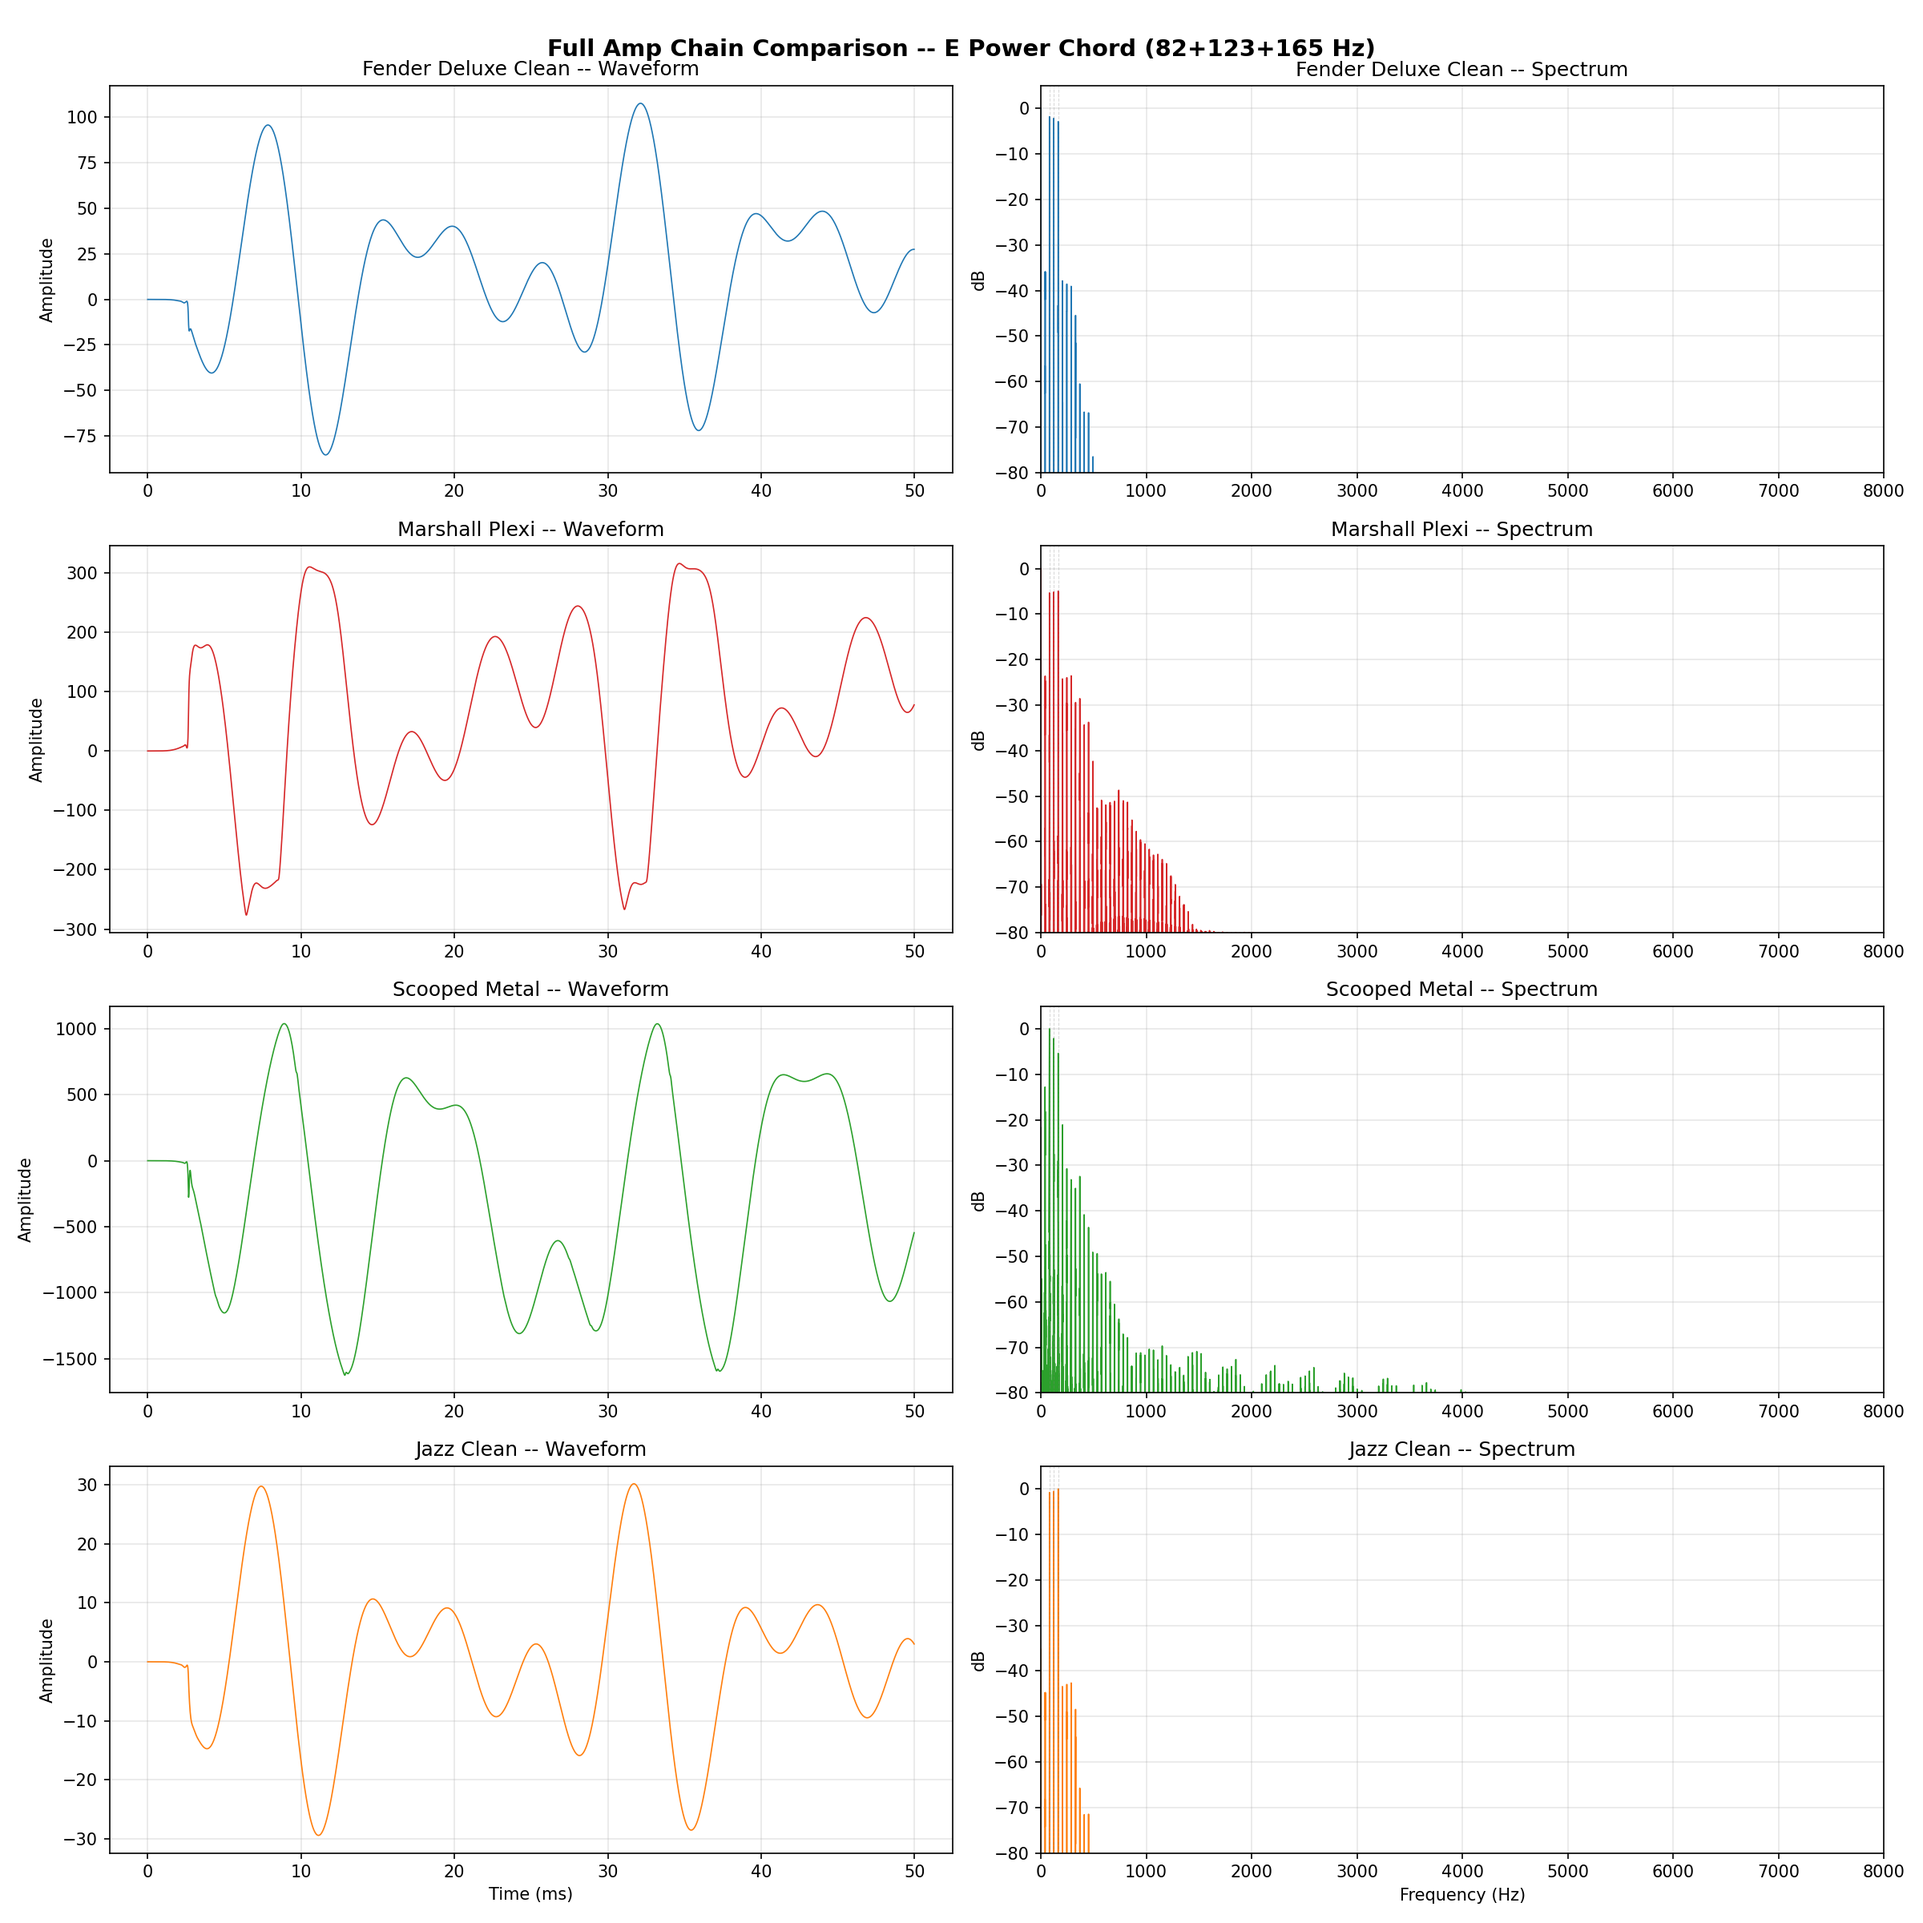
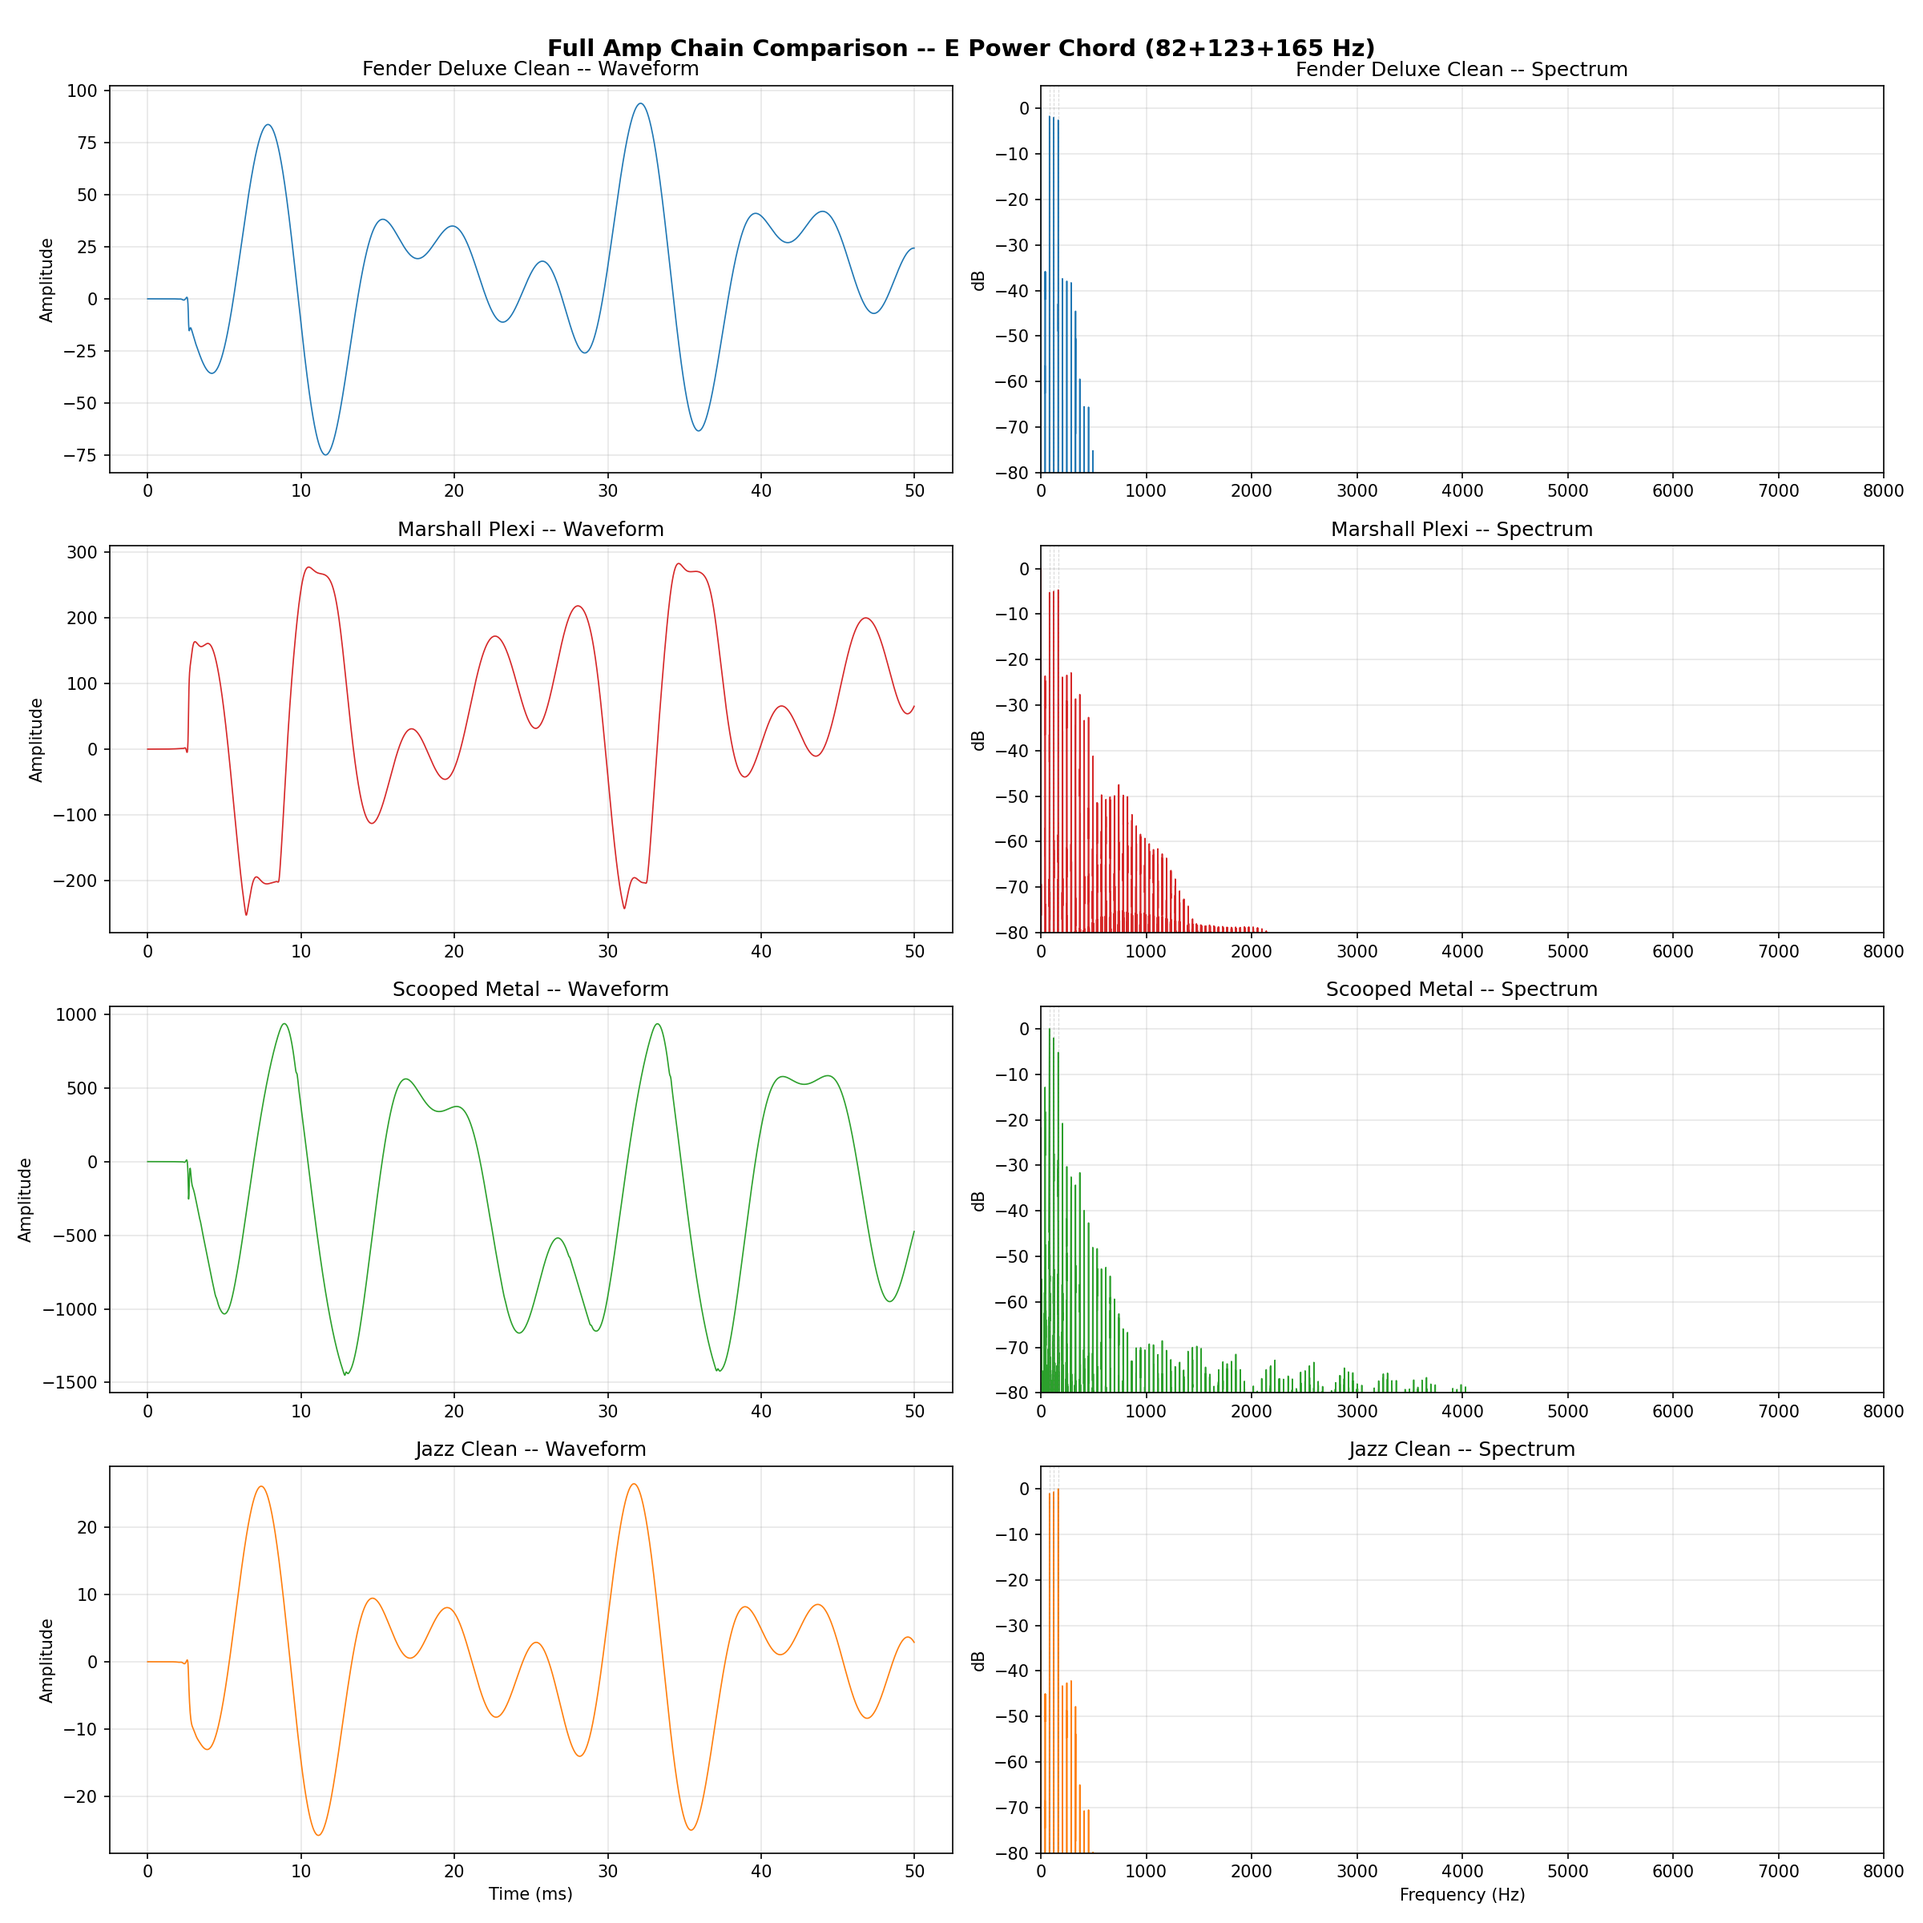
chore: updated demo output from fixed physics

Changed region(s): [[0.0312, 0.625, 0.0625, 0.6875], [0.0312, 0.2812, 0.0625, 0.3438]]

diff --git a/sim/amp_sim.py b/sim/amp_sim.py
@@ -352,7 +352,7 @@ def make_cabinet_ir(cab_type, n_taps=257, fs=48000):
         freq_interp = np.linspace(0, 1, n_half)
         mag_interp = np.interp(freq_interp, freqs_norm, mag)
         full_mag[:n_half] = mag_interp
-        full_mag[n_half:] = mag_interp[-2:0:-1]
+        full_mag[n_half:] = mag_interp[1:][::-1]
         ir = np.real(np.fft.ifft(full_mag))
         ir = np.roll(ir, n_taps // 2)
 

diff --git a/sim/full_chain_demo.py b/sim/full_chain_demo.py
@@ -277,7 +277,7 @@ def make_cabinet_ir(cab_type, n_taps=257, fs=48000):
         freq_interp = np.linspace(0, 1, n_half)
         mag_interp = np.interp(freq_interp, freqs_norm, mag)
         full_mag[:n_half] = mag_interp
-        full_mag[n_half:] = mag_interp[-2:0:-1]
+        full_mag[n_half:] = mag_interp[1:][::-1]
         ir = np.real(np.fft.ifft(full_mag))
         ir = np.roll(ir, n_taps // 2)
 
